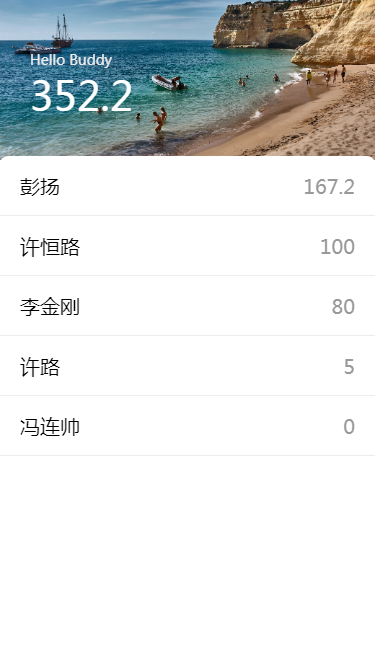
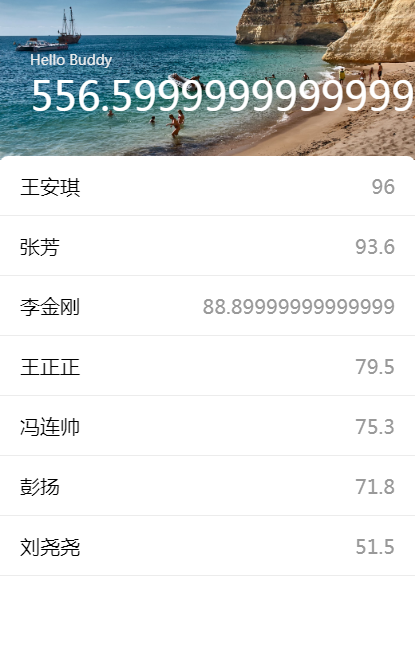
修复浮点数问题

diff --git a/reply.js b/reply.js
@@ -3,10 +3,12 @@ const { FileBox } = require('file-box');
 const { keepAccounts } = require('./account');
 const { roomName: targetRoomName } = require('./config');
 const genImg = require('./ptr')
+const { gossip } = require('./chatbot');
 
 async function reply(msg) {
     const contact = msg.from();
     const content = msg.text();
+    const contactList = await msg.mention();
     const room = msg.room();
     if (!room) return;
     const name = await contact.alias() || contact.name();
@@ -14,17 +16,22 @@ async function reply(msg) {
     // console.log({ roomName, name, content })
     if (roomName !== targetRoomName) return;
     const money = parseFloat(content);
-    if (typeof money !== 'number') return;
-
-    if (content.startsWith('+') || content.startsWith('-')) {
-        try {
-            await keepAccounts(name, money);
-            await genImg();
-            const sumImg = FileBox.fromFile('D:/learn/wc/sum.png');
-            await room.say(sumImg, [contact])
-        } catch(err) {
-            console.log(err);
-            room.say('Fail', [contact])
+    if (isNaN(money)) {
+        // if (contact.self()) return;
+        // console.log('闲聊时间');
+        // const reply = await gossip(content);
+        // await room.say(reply, contact)
+    } else {
+        if (content.startsWith('-') || content.startsWith('+')) {
+            try {
+                await keepAccounts(name, money);
+                await genImg();
+                const sumImg = FileBox.fromFile('D:/learn/wc/sum.png');
+                await room.say(sumImg, [contact])
+            } catch(err) {
+                console.log(err);
+                room.say('Fail', [contact])
+            }
         }
     }
 

diff --git a/public/sum.html b/public/sum.html
@@ -75,14 +75,15 @@
             let contentHTML = '';
             const data = JSON.parse(xhr.responseText);
             const {cash, total} = data.items[0];
-            cash.forEach(person => {
-                contentHTML += `
-                    <div class="person">
-                        <span class="name">${person.name}</span>
-                        <span class="number">${person.total}</span>
-                    </div>
-                `;
-            });
+            cash.sort((a, b) => b.total - a.total)
+                .forEach(person => {
+                    contentHTML += `
+                        <div class="person">
+                            <span class="name">${person.name}</span>
+                            <span class="number">${person.total}</span>
+                        </div>
+                    `;
+                });
             overageEl.innerHTML = contentHTML;
             document.getElementById('total').innerText = total;
           }

diff --git a/account.js b/account.js
@@ -76,14 +76,14 @@ function updateSum(name, money) {
             } else {
                 const targetPerson = res.cash.find(item => item.name === name);
                 if (targetPerson) {
-                    targetPerson.total += money;
+                    targetPerson.total = round(targetPerson.total + money);
                 } else {
                     res.cash.push({
                         name,
                         total: money
                     });
                 }
-                res.total += money;
+                res.total = round(res.total + money, 2)
                 sum.updateOne(
                     {_id: ObjectId(res._id)},
                     {$set: {
@@ -101,4 +101,8 @@ function updateSum(name, money) {
 
 module.exports = {
     keepAccounts,
+}
+
+function round(number, precision) {
+    return Math.round(+number + 'e' + precision) / Math.pow(10, precision);
 }

diff --git a/chatbot.js b/chatbot.js
@@ -1,0 +1,27 @@
+const http = require('http');
+
+async function gossip(msg) {
+  msg = encodeURIComponent(msg);
+  return new Promise((resolve, reject) => {
+    http.get(`http://api.qingyunke.com/api.php?key=free&appid=0&msg=${msg}`, res => {
+      let data = ''
+      res.on('data', chunk => {
+          data += chunk
+      });
+
+      res.on('end', () => {
+          try {
+            data = data.toString();
+            data = JSON.parse(data);
+            resolve(data.content)
+          } catch(e) {
+            resolve('Sorry, I don\'t understand')
+          }
+      })
+    })
+  })
+}
+
+module.exports ={
+  gossip,
+}

diff --git a/config.js b/config.js
@@ -13,6 +13,6 @@ const mealFeeGroup = {
     jsonFile: require('path').join(__dirname, 'mealFee.json')
 }
 
-// module.exports = webGroup;
+module.exports = webGroup;
 // module.exports = fullStack;
-module.exports = mealFeeGroup;
+// module.exports = mealFeeGroup;
